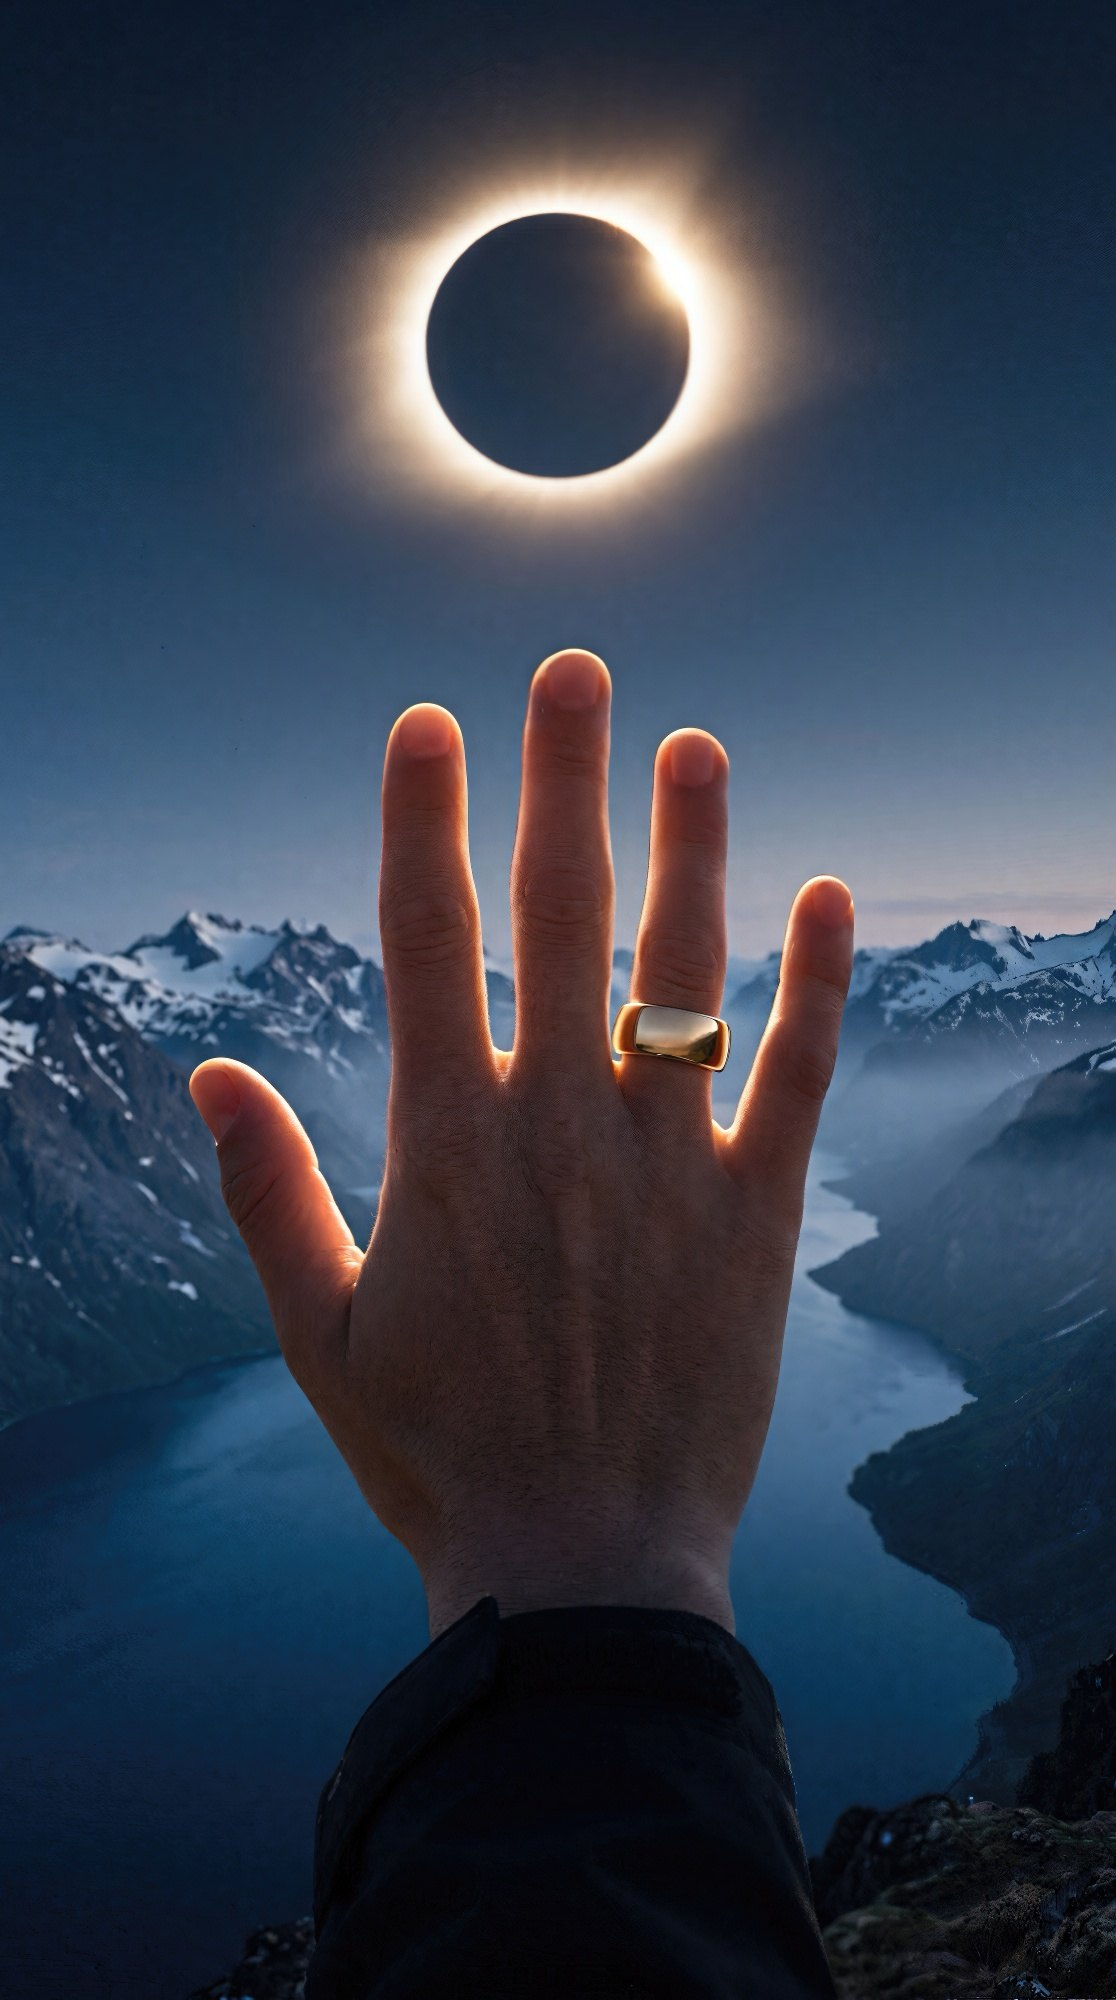
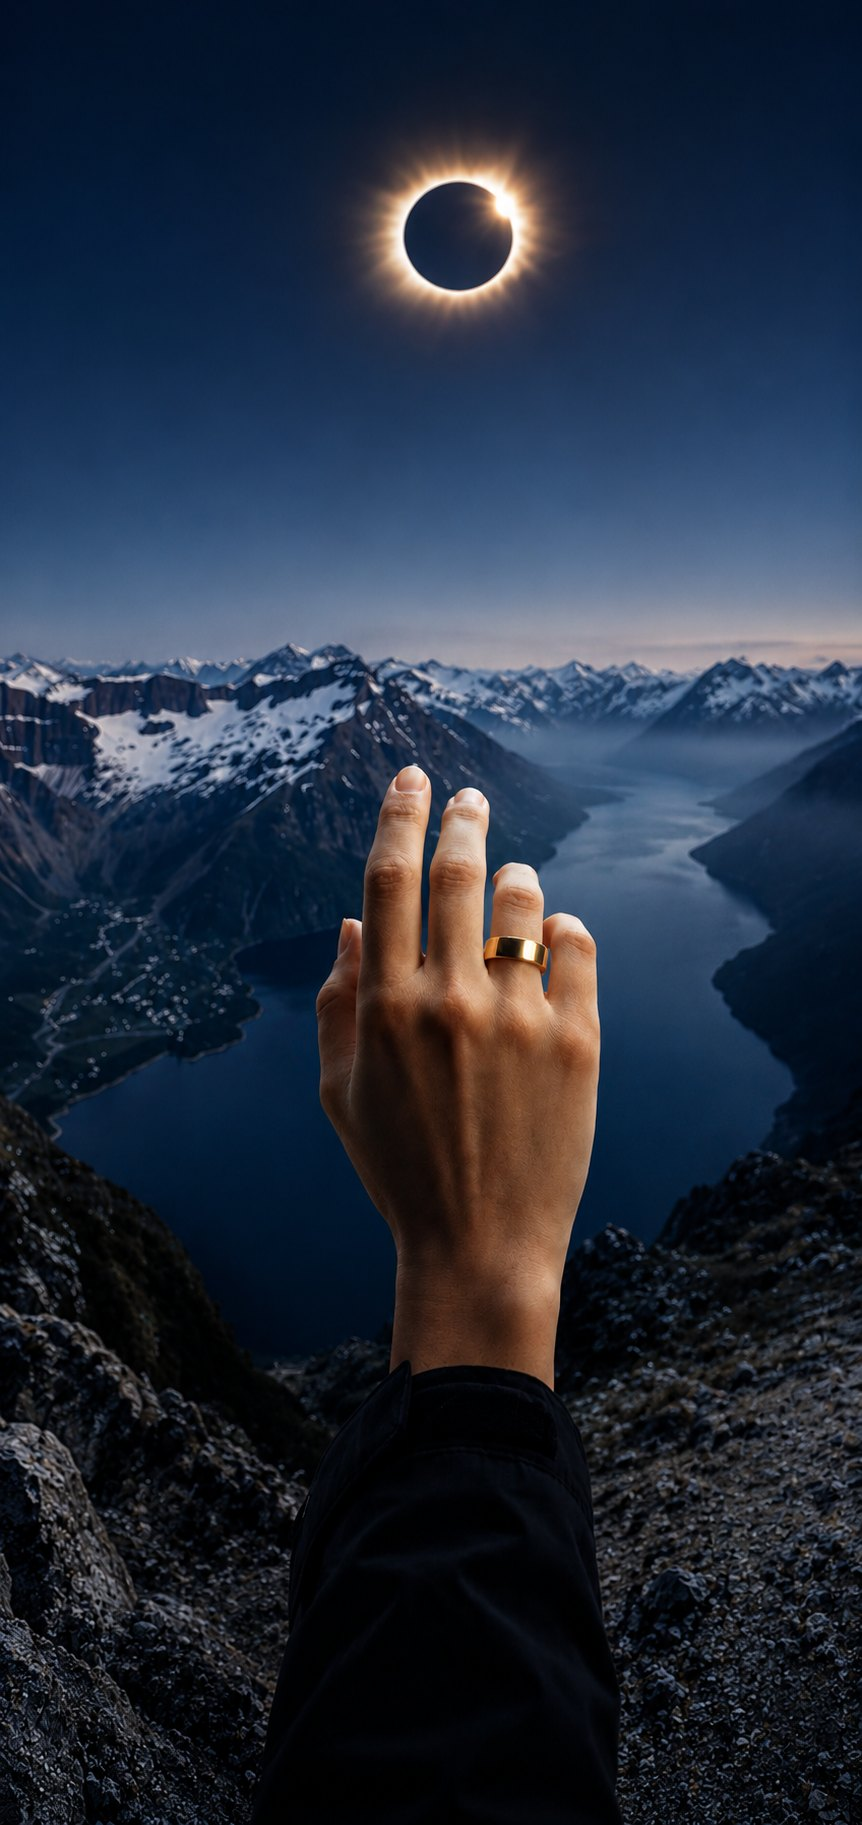
Swap in the new hero crops and re-anchor the ripple

diff --git a/index.html b/index.html
@@ -819,8 +819,8 @@ body.bar-visible{padding-bottom:64px}
        downloads the tall one. The 900px breakpoint here is the same one the
        ripple-anchor constants switch on; move one and you must move the other. -->
   <picture>
-    <source media="(min-width:900px)" srcset="assets/hero-reach.jpg" width="1872" height="1056">
-    <img decoding="async" class="hero-bg" src="assets/autopilot-hand.jpg" alt="" fetchpriority="high" width="1116" height="2000">
+    <source media="(min-width:900px)" srcset="assets/hero-reach.jpg" width="1670" height="942">
+    <img decoding="async" class="hero-bg" src="assets/autopilot-hand.jpg" alt="" fetchpriority="high" width="862" height="1825">
   </picture>
   <span class="hero-pulse" aria-hidden="true"><i></i><i></i><i></i></span>
   <div class="hero-foot">
@@ -1899,8 +1899,8 @@ if('IntersectionObserver' in window){
   /* two cuts, one anchor: constants per image, picked off the same 900px
      breakpoint as the <source> media. Measured centre/width as fractions. */
   const CUTS={
-    tall:{POS_Y:0.59, RING_X:0.6285, RING_Y:0.5202, RING_W:0.158},   /* autopilot-hand.jpg */
-    wide:{POS_Y:0.40, RING_X:0.530,  RING_Y:0.515,  RING_W:0.042}    /* hero-reach.jpg */
+    tall:{POS_Y:0.59, RING_X:0.5739, RING_Y:0.5207, RING_W:0.138},   /* autopilot-hand.jpg */
+    wide:{POS_Y:0.40, RING_X:0.5345, RING_Y:0.4922, RING_W:0.038}    /* hero-reach.jpg */
   };
   const heroMQ=matchMedia('(min-width:900px)');
   const pulse=document.querySelector('.hero-pulse');
